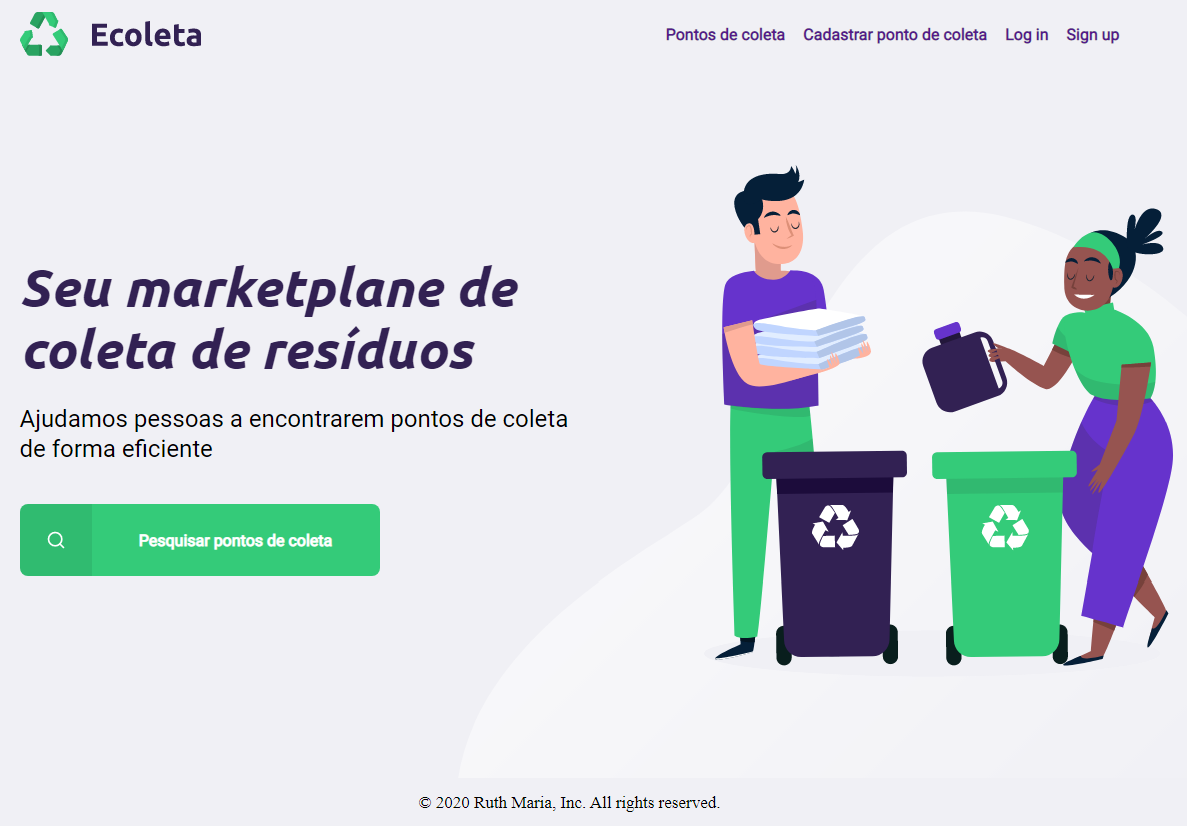
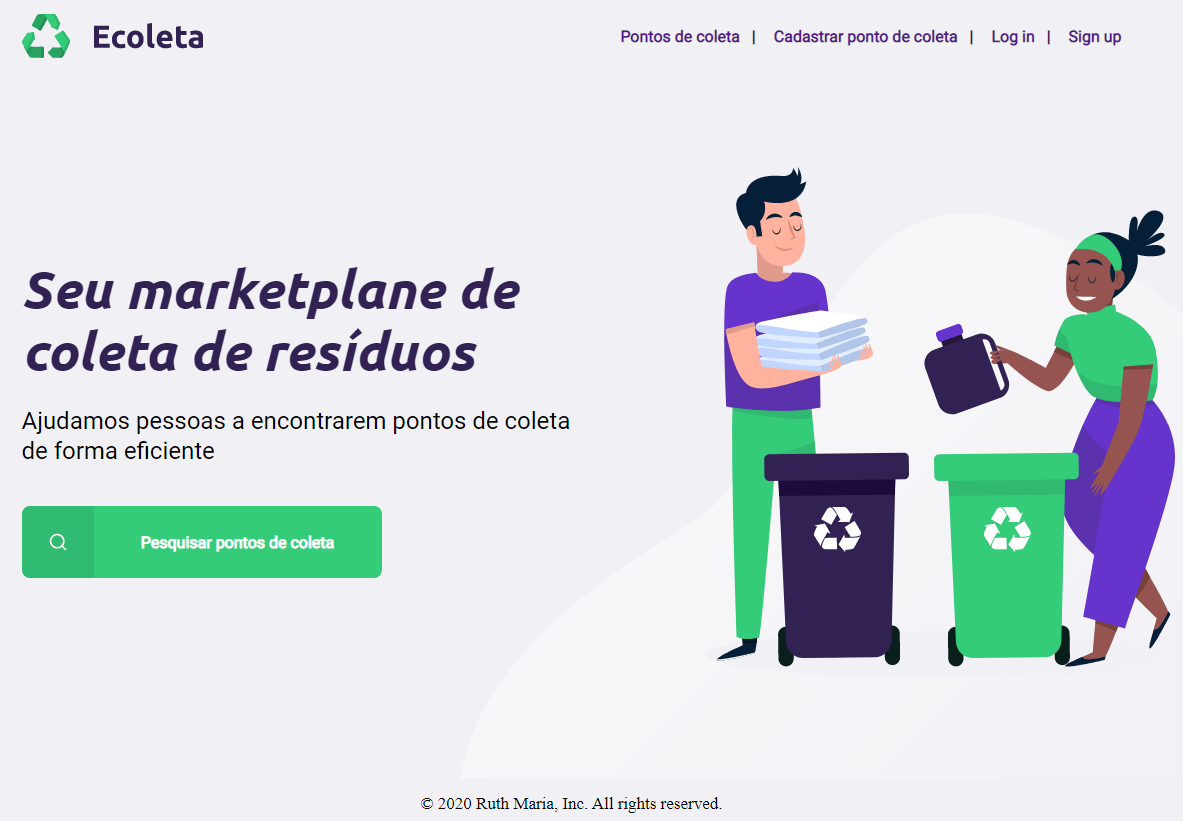
Coloquei responsividade nas telas

diff --git a/src/views/pages/index.html b/src/views/pages/index.html
@@ -14,10 +14,10 @@
         <header>
             <img src="/assets/logo.svg" alt="logomarca">
             <div class = "login-sigup">           
-                    <a href="/All-places"><span></span>Pontos de coleta</a>
-                    <a href="/create-point">Cadastrar ponto de coleta</a>
-                    <a href="/login">Log in</a>
-                    <a href="/create-account">Sign up</a>                
+                <a href="/All-places"><span></span>Pontos de coleta&nbsp;&nbsp;&nbsp;|</a>
+                <a href="/create-point">Cadastrar ponto de coleta&nbsp;&nbsp;&nbsp;|</a>
+                <a href="/login">Log in&nbsp;&nbsp;&nbsp;|</a>
+                <a href="/create-account">Sign up</a>                
             </div>
         </header>
 

diff --git a/public/styles/responsive.css b/public/styles/responsive.css
@@ -10,11 +10,12 @@
         text-align: center;
     }
 
-    #page-home header a {
+    #page-home header .login-sigup{
         position: absolute;
-        bottom: -30px;
-        left: 50%;
-        transform: translateX(-50%);
+        top: 150px;
+        transform: translateX(-30%);
+        align-items: center;
+        text-align: center;
     }
 
     #page-home main {
@@ -38,7 +39,7 @@
     }
 
     #page-create-account form #registry {
-        width: 50%;
+        width: 180px;
     }
 }
 
@@ -53,3 +54,14 @@
         background-position-y: 200px;
     }
 }
+
+@media (max-height: 320px) {
+    #page-login .field-group{
+        width: 100%;
+        font-size: 16px;
+    }
+    #page-login form h1 {
+        font-size: 16px;
+    }
+}
+

diff --git a/src/views/pages/create-account.html b/src/views/pages/create-account.html
@@ -27,7 +27,7 @@
         <form action="/save-account" method='post'>
 
             <h1>Crie a sua conta</h1>
-
+            
             <fb:login-button scope="public_profile,email" onlogin="checkLoginState();" 
                 data-size="large"
                 data-width="400"

diff --git a/README.md b/README.md
@@ -10,6 +10,8 @@
 - [API used](#api)
 - [Run the project locally](#run)
 - [Screens](#screens)
+- [How to contribute](#contribute)
+- [License](#license)
 
 <a id="about"></a><br>
 
@@ -110,7 +112,16 @@ https://localhost:3000
 ### Something went wrong
 ![Something went wrong](https://github.com/RuthMaria/NLW/blob/master/public/screens/somethingWrong.png)
 
-<br>
+<a id="contribute"></a><br>
+
+## :thinking: How to contribute
+
+- Fork this repository,
+- Create a branch with your feature: `git checkout -b my-feature`
+- Commit your changes: `git commit -m 'feat: My new feature'`
+- Push your branch: `git push origin my-feature`
+
+<br><a id="license"></a><br>
 
 ## :memo: License
 
